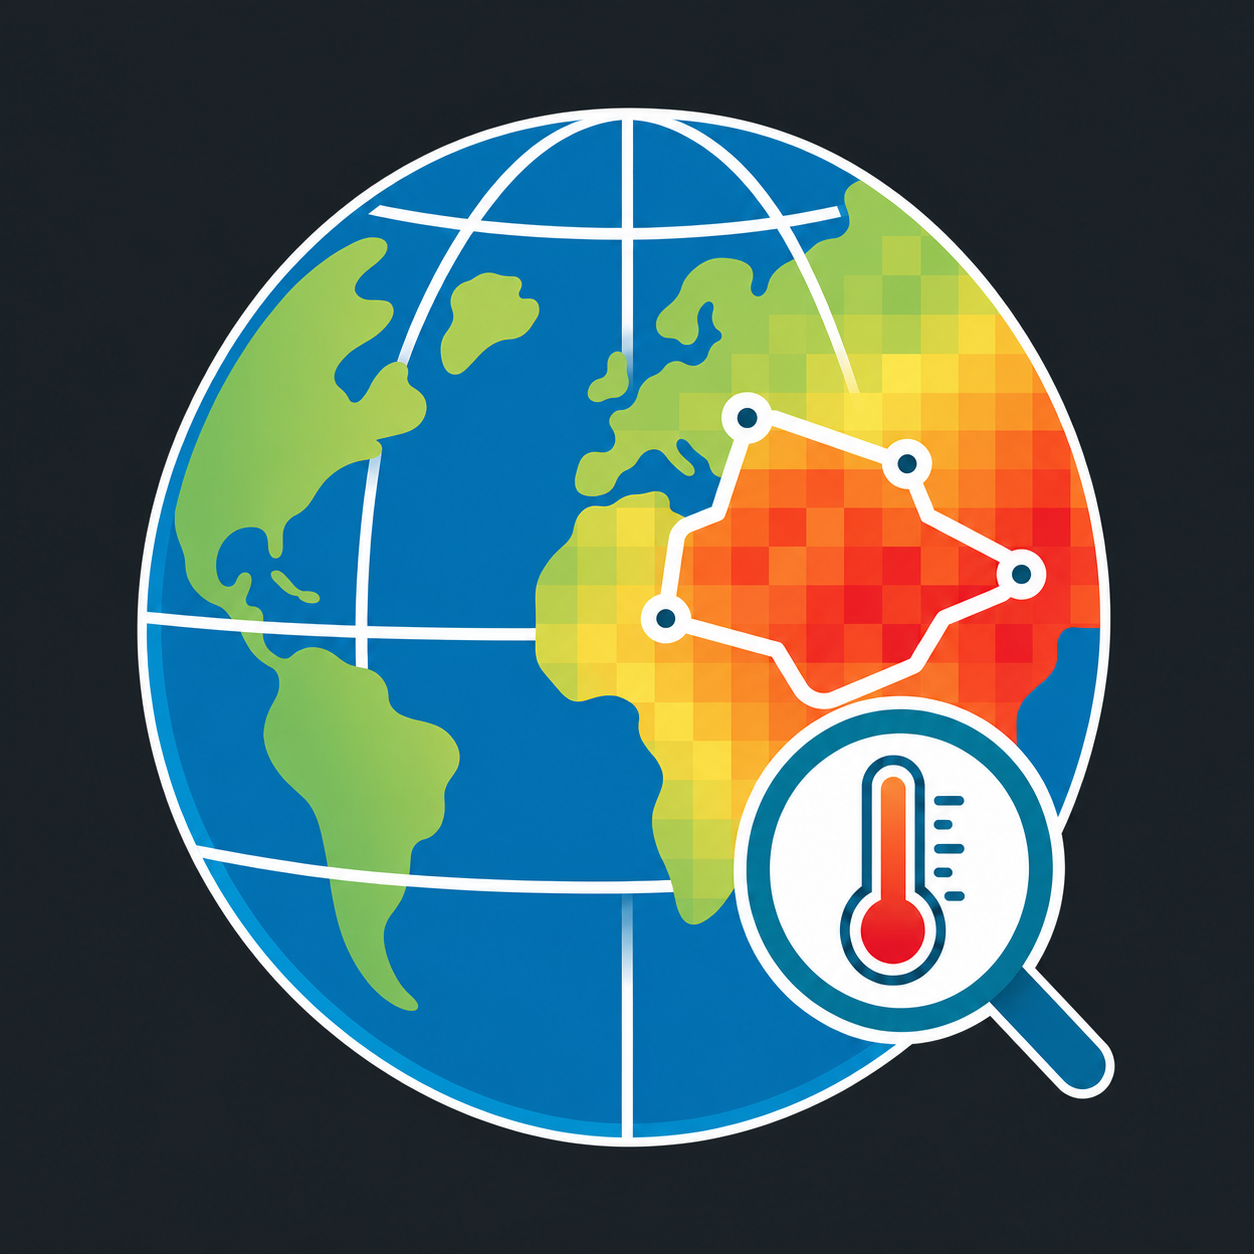
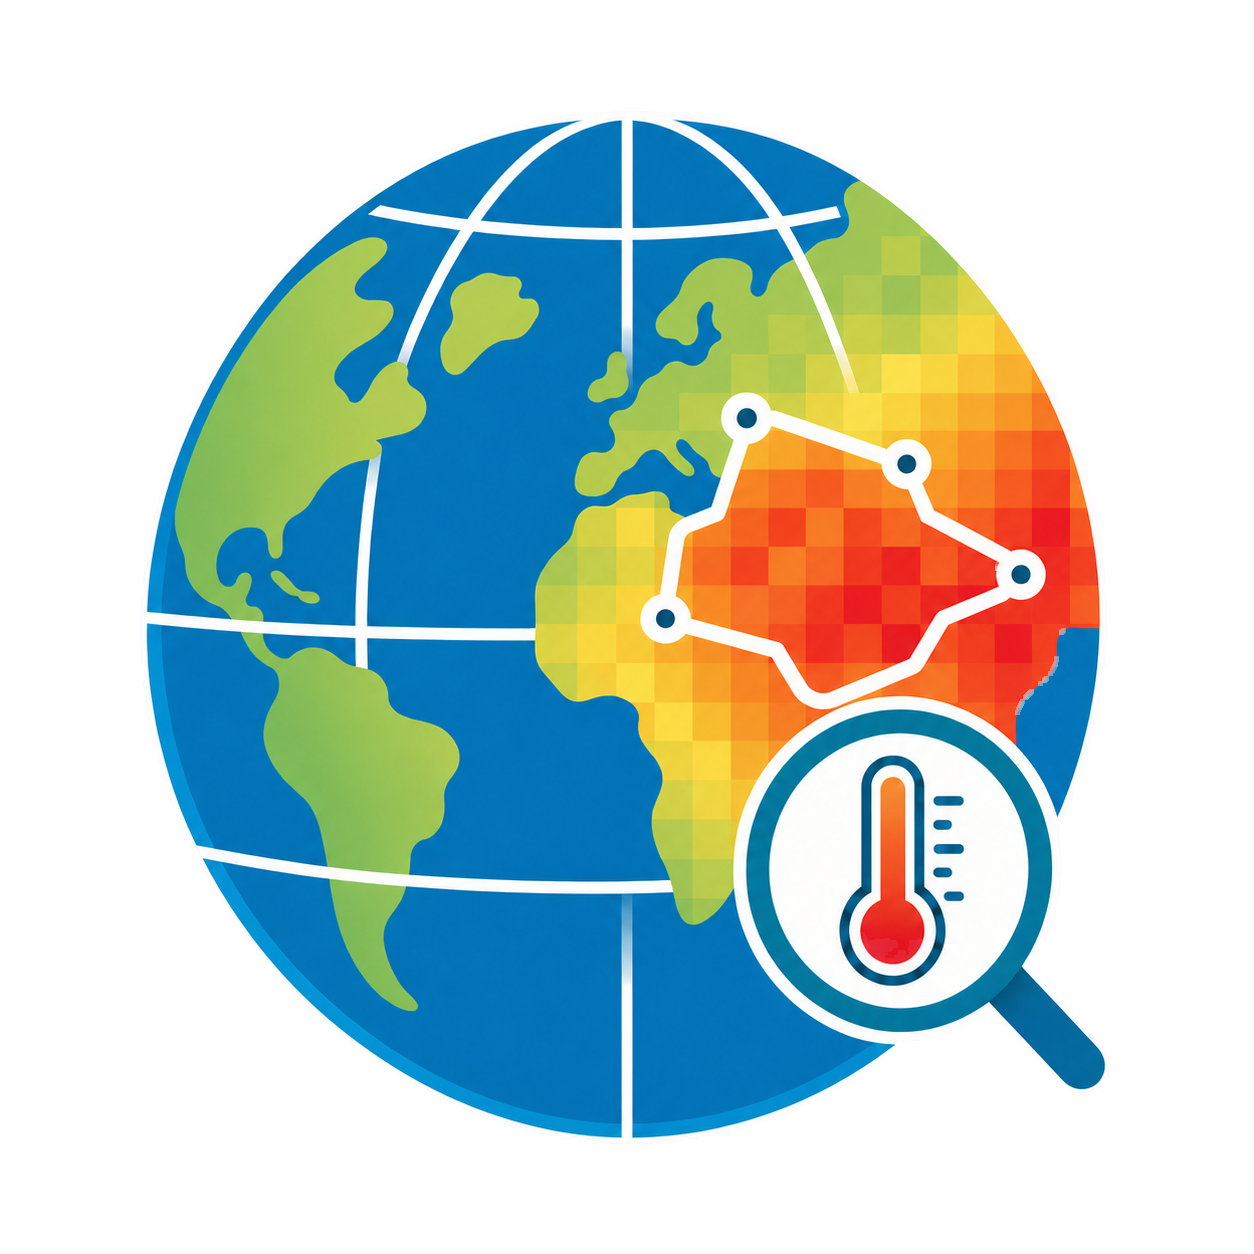
fix: polish transparent branding assets

diff --git a/tests/ui/test_main_window.py b/tests/ui/test_main_window.py
@@ -4,7 +4,12 @@ from types import SimpleNamespace
 from uuid import uuid4
 
 from PySide6.QtCore import Qt
-from PySide6.QtWidgets import QAbstractSpinBox, QMessageBox, QProgressBar
+from PySide6.QtWidgets import (
+    QAbstractSpinBox,
+    QGraphicsDropShadowEffect,
+    QMessageBox,
+    QProgressBar,
+)
 
 import cmip_explorer.ui.pages.settings as settings_module
 from cmip_explorer import __version__
@@ -51,6 +56,9 @@ def test_main_window_contains_complete_workbench_navigation(qtbot, tmp_path: Pat
     assert window.navigation.item(0).text() == "数据下载"
     assert window.navigation.item(1).text() == "下载任务"
     assert window.navigation.item(2).text() == "文件处理"
+    window_icon = window.windowIcon().pixmap(32, 32).toImage()
+    assert window_icon.hasAlphaChannel()
+    assert window_icon.pixelColor(0, 0).alpha() == 0
     assert all(
         window.navigation.item(index).text() not in {"研究区", "处理计划"}
         for index in range(window.navigation.count())
@@ -58,9 +66,11 @@ def test_main_window_contains_complete_workbench_navigation(qtbot, tmp_path: Pat
     settings_page = window.stack.widget(5)
     assert settings_page.update_button.text() == "检查更新"
     assert settings_page.version_label.text() == f"当前版本 {__version__}"
-    assert window.sidebar_version.text() == (
-        f"v{__version__}  |  Developed by Wei Heng"
+    assert window.sidebar_author.text() == "Developed by Wei Noob304"
+    assert isinstance(
+        window.sidebar_author.graphicsEffect(), QGraphicsDropShadowEffect
     )
+    assert window.sidebar_version.text() == f"v{__version__}"
     settings_page._show_update_progress(50 * 1024**2, 100 * 1024**2)
     assert settings_page.update_progress.maximum() == 1000
     assert settings_page.update_progress.value() == 500

diff --git a/src/cmip_explorer/ui/main_window.py b/src/cmip_explorer/ui/main_window.py
@@ -9,6 +9,7 @@ from PySide6.QtGui import QCloseEvent, QColor, QDesktopServices
 from PySide6.QtWidgets import (
     QComboBox,
     QFrame,
+    QGraphicsDropShadowEffect,
     QHBoxLayout,
     QHeaderView,
     QLabel,
@@ -106,9 +107,17 @@ class MainWindow(QMainWindow):
         connection.addWidget(dot)
         connection.addWidget(connection_text)
         connection.addStretch(1)
-        self.sidebar_version = QLabel(f"v{__version__}  |  Developed by Wei Heng")
+        self.sidebar_author = QLabel("Developed by Wei Noob304")
+        self.sidebar_author.setObjectName("SidebarAuthor")
+        author_glow = QGraphicsDropShadowEffect(self.sidebar_author)
+        author_glow.setBlurRadius(7.0)
+        author_glow.setColor(QColor(215, 226, 232, 90))
+        author_glow.setOffset(0, 0)
+        self.sidebar_author.setGraphicsEffect(author_glow)
+        self.sidebar_version = QLabel(f"v{__version__}")
         self.sidebar_version.setObjectName("SidebarVersion")
         footer_layout.addLayout(connection)
+        footer_layout.addWidget(self.sidebar_author)
         footer_layout.addWidget(self.sidebar_version)
         side_layout.addWidget(footer)
         self.stack = QStackedWidget()

diff --git a/src/cmip_explorer/ui/style.py b/src/cmip_explorer/ui/style.py
@@ -31,9 +31,15 @@ QLabel#Brand {
     font-weight: 600;
 }
 QLabel#SidebarCaption, QLabel#SidebarVersion {
-    color: #8fa2aa;
+    color: #91a4ac;
     background: transparent;
     font-size: 9pt;
+}
+QLabel#SidebarAuthor {
+    color: #d6dfe3;
+    background: transparent;
+    font-size: 9pt;
+    font-weight: 500;
 }
 QLabel#ConnectionDot {
     color: #4cc38a;

diff --git a/src/cmip_explorer/__init__.py b/src/cmip_explorer/__init__.py
@@ -1,3 +1,3 @@
 """CMIP Climate Data Explorer."""
 
-__version__ = "0.5.6"
+__version__ = "0.5.7"

diff --git a/src/cmip_explorer/infrastructure/download/http.py b/src/cmip_explorer/infrastructure/download/http.py
@@ -70,7 +70,7 @@ class HttpRangeDownloader:
         return httpx.AsyncClient(
             timeout=httpx.Timeout(20.0, connect=10.0, read=15.0),
             follow_redirects=True,
-            headers={"User-Agent": "CMIP-Climate-Explorer/0.5.6"},
+            headers={"User-Agent": "CMIP-Climate-Explorer/0.5.7"},
         )
 
     async def download(

diff --git a/src/cmip_explorer/infrastructure/search/backends.py b/src/cmip_explorer/infrastructure/search/backends.py
@@ -27,7 +27,7 @@ class LegacySolrBackend:
         self.client = client or httpx.AsyncClient(
             timeout=httpx.Timeout(25.0, connect=10.0),
             follow_redirects=True,
-            headers={"User-Agent": "CMIP-Climate-Explorer/0.5.6"},
+            headers={"User-Agent": "CMIP-Climate-Explorer/0.5.7"},
         )
 
     async def detect_capabilities(self) -> BackendCapabilities:

diff --git a/src/cmip_explorer/infrastructure/search/provider_backends.py b/src/cmip_explorer/infrastructure/search/provider_backends.py
@@ -45,7 +45,7 @@ class HttpProviderBackend:
         self.client = client or httpx.AsyncClient(
             timeout=httpx.Timeout(35, connect=12),
             follow_redirects=True,
-            headers={"User-Agent": "CMIP-Climate-Explorer/0.5.6"},
+            headers={"User-Agent": "CMIP-Climate-Explorer/0.5.7"},
         )
 
     async def detect_capabilities(self) -> BackendCapabilities: